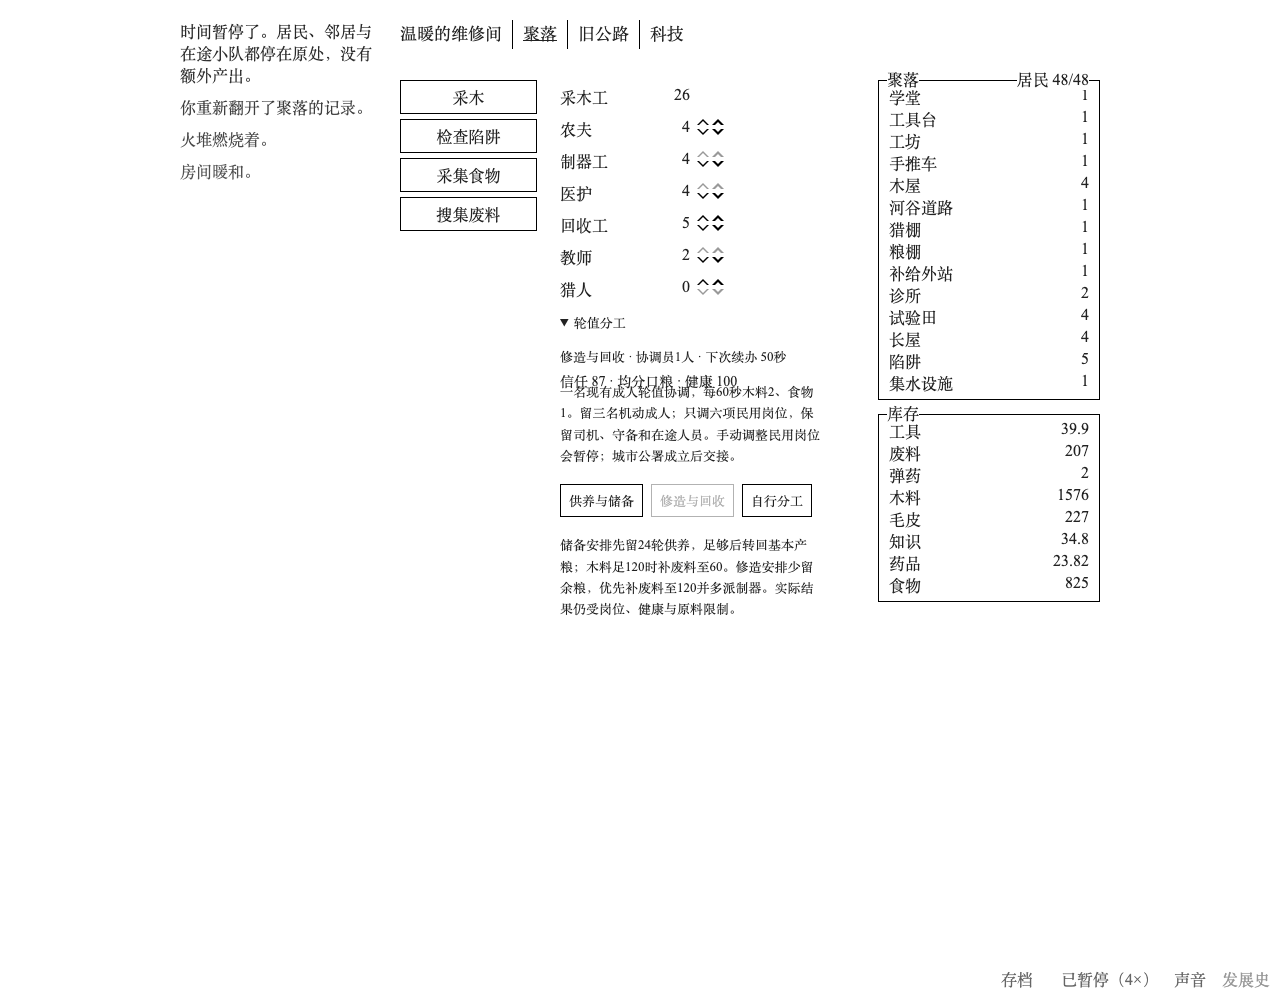
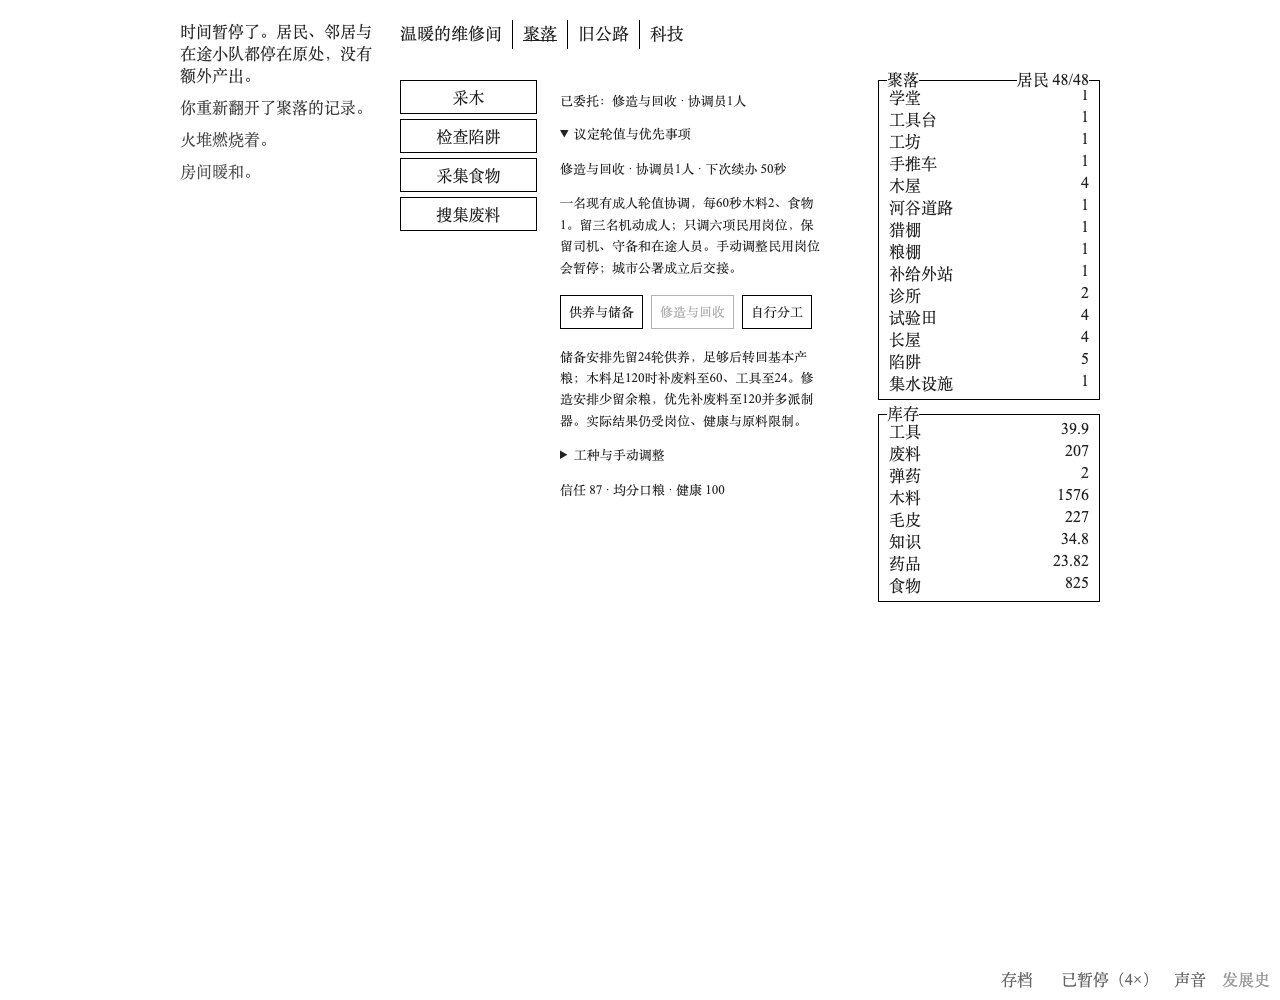
fix: fold delegated early jobs without overlapping settlement status

Changed region(s): [[0.4375, 0.093, 0.6562, 0.62]]

diff --git a/游戏/src/postwar/pacing.js b/游戏/src/postwar/pacing.js
@@ -43,8 +43,25 @@ var CivilPacing={
     for(const r of d.changes){if(!time(r.at)||r.at<last||!Object.hasOwn(this.modes,r.mode)||typeof r.enabled!=='boolean'||(!r.enabled&&!['manual','shortage','workforce','institution'].includes(r.why)))fail();last=r.at;mode=r.mode;enabled=r.enabled;}
     if(mode!==d.mode||enabled!==d.enabled||d.handoffAt!==null&&(!time(d.handoffAt)||!c.city?.institutions||d.enabled))fail();
   },
-  refresh(s){if(typeof document==='undefined'||!document.getElementById?.('workers'))return;const exists=document.getElementById('civilWorkMandate');if(!this.available(s)){if(exists)exists.remove();$('#workers').removeClass('civil-worklisted');return;}let box=$('#civilWorkMandate');if(!box.length){box=$('<details>').attr('id','civilWorkMandate').addClass('civil-details').appendTo('#workers');$('<summary>').text('轮值分工').appendTo(box);$('<p>').attr('id','civilWorkStatus').appendTo(box);$('<p>').text('一名现有成人轮值协调，每60秒木料2、食物1。留三名机动成人；只调六项民用岗位，保留司机、守备和在途人员。手动调整民用岗位会暂停；城市公署成立后交接。').appendTo(box);$('<div>').attr('id','civilWorkChoices').appendTo(box);$('<p>').attr('id','civilWorkPreview').appendTo(box);}$('#workers').addClass('civil-worklisted');
+  refresh(s){
+    if(typeof document==='undefined'||!document.getElementById?.('workers'))return;
+    let root=$('#civilEarlyWork');
+    if(!this.available(s)){
+      if(root.length){const jobs=$('#civilDelegatedJobs').length?$('#civilDelegatedJobs'):$('#workers');jobs.insertBefore(root);$('#socialNote,#civilManualGather').appendTo('#outsidePanel');root.remove();}
+      return;
+    }
+    if(!root.length){
+      root=$('<div>').attr('id','civilEarlyWork').appendTo('#outsidePanel');
+      $('<p>').attr('id','civilWorkBrief').addClass('civil-brief').appendTo(root);
+      const box=$('<details>').attr('id','civilWorkMandate').addClass('civil-details').appendTo(root);$('<summary>').text('议定轮值与优先事项').appendTo(box);
+      $('<p>').attr('id','civilWorkStatus').appendTo(box);$('<p>').text('一名现有成人轮值协调，每60秒木料2、食物1。留三名机动成人；只调六项民用岗位，保留司机、守备和在途人员。手动调整民用岗位会暂停；城市公署成立后交接。').appendTo(box);
+      $('<div>').attr('id','civilWorkChoices').appendTo(box);$('<p>').attr('id','civilWorkPreview').appendTo(box);
+      const manual=$('<details>').attr('id','civilEarlyJobs').addClass('civil-details').appendTo(root);$('<summary>').text('工种与手动调整').appendTo(manual);$('#workers').appendTo(manual);
+    }
+    for(const id of ['socialNote','civilManualGather'])if($('#'+id).length&&$('#'+id).parent()[0]!==root[0])$('#'+id).appendTo(root);
     const d=this.data(s);$('#civilWorkStatus').text(d.enabled?this.modes[d.mode]+' · 协调员1人 · 下次续办 '+Math.max(0,d.until-s.civilization.elapsed)+'秒':'自行分工'+(d.changes.at(-1)?.why==='shortage'?' · 维护缺料已暂停，补足后可恢复':''));
+    $('#civilWorkBrief').text(d.enabled?'已委托：'+this.modes[d.mode]+' · 协调员1人':'自行安排民用岗位');
+    const manual=$('#civilEarlyJobs');if(manual.attr('data-enabled')!==String(d.enabled)){manual.attr('data-enabled',String(d.enabled));manual.prop('open',!d.enabled);}
     for(const [mode,label]of Object.entries(this.modes))CivilCityView.button('civilWork_'+mode,label,'#civilWorkChoices',this.reason(s,mode),()=>this.set(State,mode));
     CivilCityView.button('civilWork_stop','自行分工','#civilWorkChoices',d.enabled?null:'当前自行分工',()=>this.stop(State));
     $('#civilWorkPreview').text('储备安排先留24轮供养，足够后转回基本产粮；木料足120时补废料至60、工具至24。修造安排少留余粮，优先补废料至120并多派制器。实际结果仍受岗位、健康与原料限制。');

diff --git a/游戏/css/interface.css b/游戏/css/interface.css
@@ -65,12 +65,17 @@ body.dark .civil-step { border-color:#eee; }
 #cityBody .civil-guide { width:100%; padding:0 0 12px; border-bottom:1px solid #888; color:var(--civil-ink,#222); }
 body.dark #cityBody .civil-guide { color:#ddd; }
 #civilGuideActions .button, #civilWorkChoices .button { display:inline-block; width:auto!important; margin:4px 8px 4px 0; padding:5px 8px; }
-#workers.civil-worklisted { width:260px; max-width:100%; }
-#workers.civil-worklisted .workerRow { width:150px; }
+#civilEarlyWork { position:absolute; left:160px; top:0; width:270px; max-height:600px; overflow-y:auto; padding-right:8px; box-sizing:border-box; }
+#civilEarlyWork #workers, #civilEarlyWork #socialNote, #civilEarlyWork #civilManualGather { position:static!important; top:auto!important; left:auto; max-width:100%; }
+#civilEarlyWork #socialNote { margin:12px 0; font-size:13px; }
+#civilEarlyWork #workers { width:150px; }
 #civilWorkMandate { width:260px; max-width:100%; }
 input.civil-outfit-val { width:58px; padding:5px 2px; box-sizing:border-box; color:inherit; background:transparent; border:1px solid #888; font:inherit; }
 @media (min-width:940px) {
   #roomPanel:not(.civil-room-managed) #civilGuide { position:absolute; top:200px; left:150px; width:260px; padding:0; }
+}
+@media (max-width:939px) {
+  #civilEarlyWork { position:static; width:100%; max-height:none; overflow:visible; padding:0; }
 }
 #researchUnlocks .button.civil-inline { display:inline-block; width:auto!important; padding:0 10px; margin:6px 8px 0 0; }
 .civil-highlight { outline:2px solid #000; outline-offset:2px; } body.dark .civil-highlight { outline-color:#fff; }

diff --git a/HANDOFF.md b/HANDOFF.md
@@ -2,7 +2,8 @@
 
 - 本轮仅处理开局至城市群的抉择、重复操作和等待。设计见 `设计/96_A7开局与城市群节奏收口.md`，不新增国家系统、不延长计时器。
 - 已完成规则初稿：真正新档 `pacingVersion:1` 的有限轮值分工，协调员占真实成人、每60秒实付木2粮1，留机动劳力；城市公署出现后交接。城市议题按实际技能/供给/运力需求出现，由原有规则付款与执行。
-- 当前检查：轮值、法律、近郊23项相关规则检查通过。两份独立种子7417新档已通过UI起步；自然节奏、界面及完整回归尚未完成，不能据此宣布体验指标达标。
+- 界面已接通第一间住房取舍、万人城至三城直达入口、原镇交接和装包数量输入。城市公共服务分工可委托培养临床储备，改工序仍需本人决定，课程照付全部费用。
+- 当前检查：阶段完整回归1124/1124；新增缓冲与劳力保护后45项相关检查通过。两份独立种子7417新档正在自然推进；另有住房优先开局对照。界面正在复核委托后的岗位折叠，最终自然时长、操作量及冻结后回归尚未完成，不能宣布体验指标达标。
 - 586份已有导出SHA-256基线在 `验证/A7节奏/原始导出基线.json`，含上一轮全部自然证据；只读，接续不改原件。
 - 下一步：接好城市到三城的行动引导、装包输入，完成两路线自然验证和对比，更新真实结果后提交推送。原4180服务保留；新浏览器9380/9381只用于本轮独立档。
 
